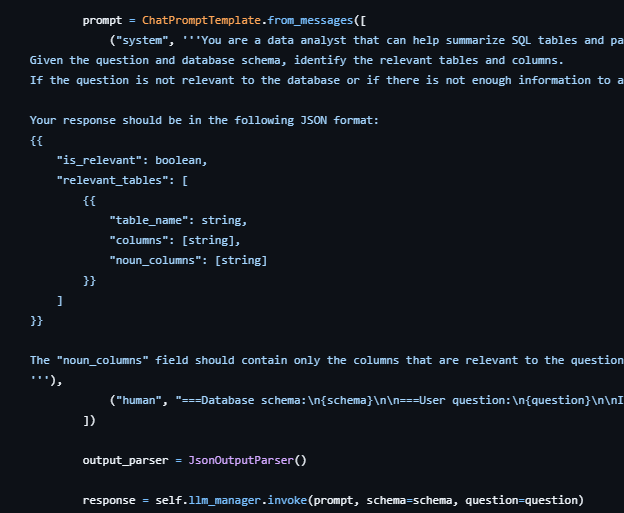
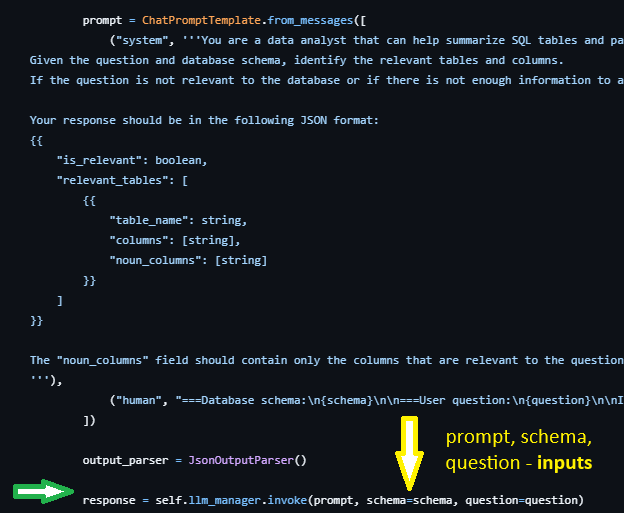
add image

Changed region(s): [[0.7003, 0.8421, 0.9439, 0.9357], [0.609, 0.8109, 0.7003, 0.9669], [0.0, 0.9357, 0.1218, 0.9981]]

diff --git a/site/index.html b/site/index.html
@@ -840,6 +840,8 @@
 <p>Each Agent has its own <strong>self-reflection</strong> by exporting the above to a CSV.</p>
 <p>This CSV can then be analysed using a range of Eval Libraries like Evidently, DeepEval and Ragas, with or without references (ground truths).</p>
 <p><img alt="Log" src="images/example_log_print.png" /></p>
+<p>We find where the LLM point is in our code if we are doing evals after dev:</p>
+<p><img alt="LLM" src="images/case_study4/sql-agent-2.png" /></p>
 <h2 id="evaluation">Evaluation<a class="headerlink" href="#evaluation" title="Permanent link">&para;</a></h2>
 <blockquote>
 <p>Add REFERENCE column to dataset and then do evals.</p>

diff --git a/docs/index.md b/docs/index.md
@@ -20,6 +20,10 @@ This CSV can then be analysed using a range of Eval Libraries like Evidently, De
 
 ![Log](./images/example_log_print.png)
 
+We find where the LLM point is in our code if we are doing evals after dev:
+
+![LLM](./images/case_study4/sql-agent-2.png)
+
 ## Evaluation
 
 > Add REFERENCE column to dataset and then do evals.
